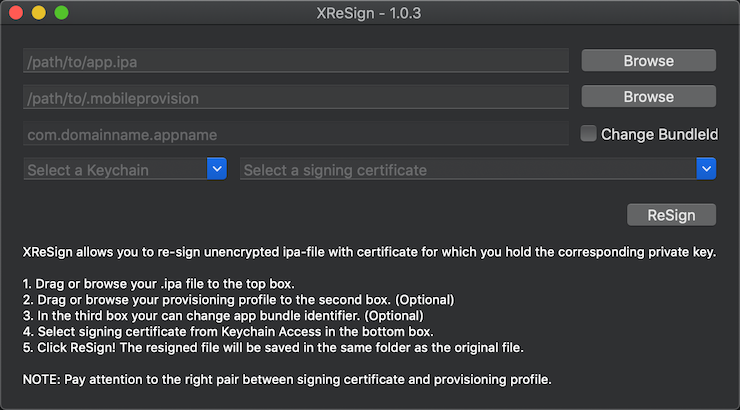
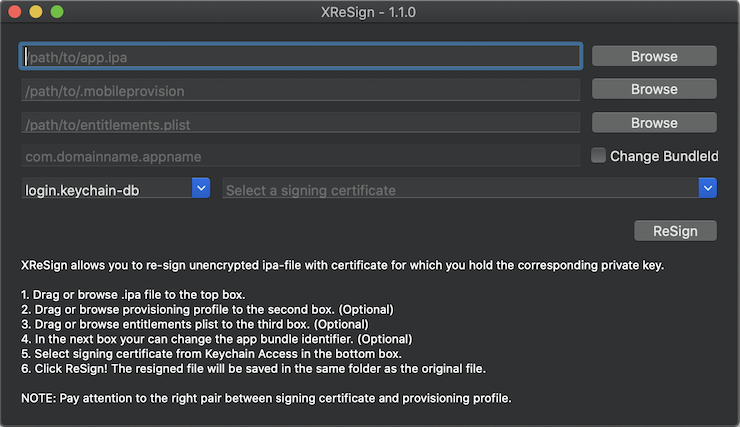
build 1.1.0 + entitlements support

diff --git a/XReSign/ViewController.swift b/XReSign/ViewController.swift
@@ -322,7 +322,7 @@ class ViewController: NSViewController {
         if !entitlementsPath.isEmpty {
             if !FileManager.default.fileExists(atPath: entitlementsPath) {
                 showAlertWith(title: nil,
-                              message: "entitlements not exists!",
+                              message: "Entitlements not exists!",
                               style: .critical)
                 return
             }
